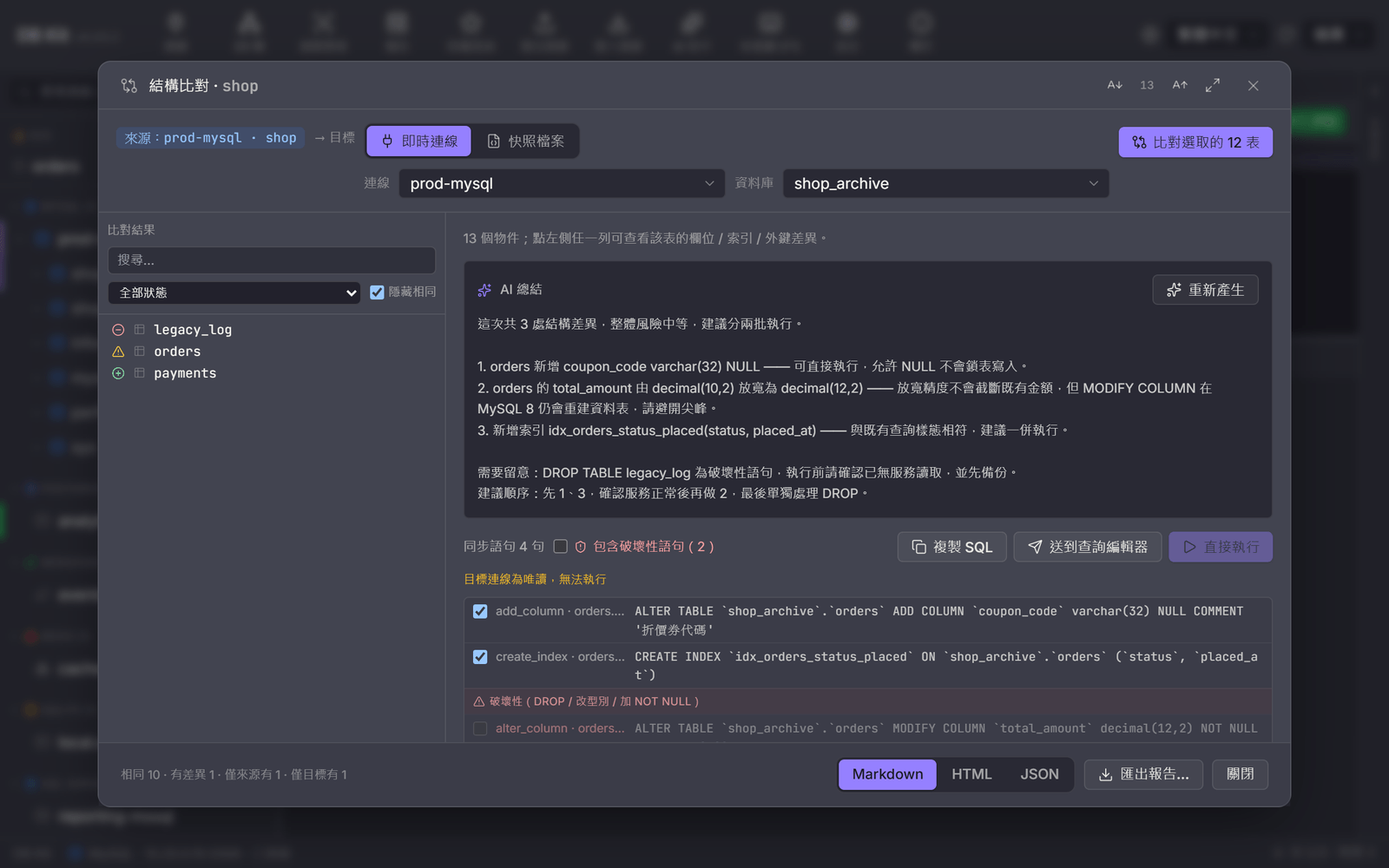
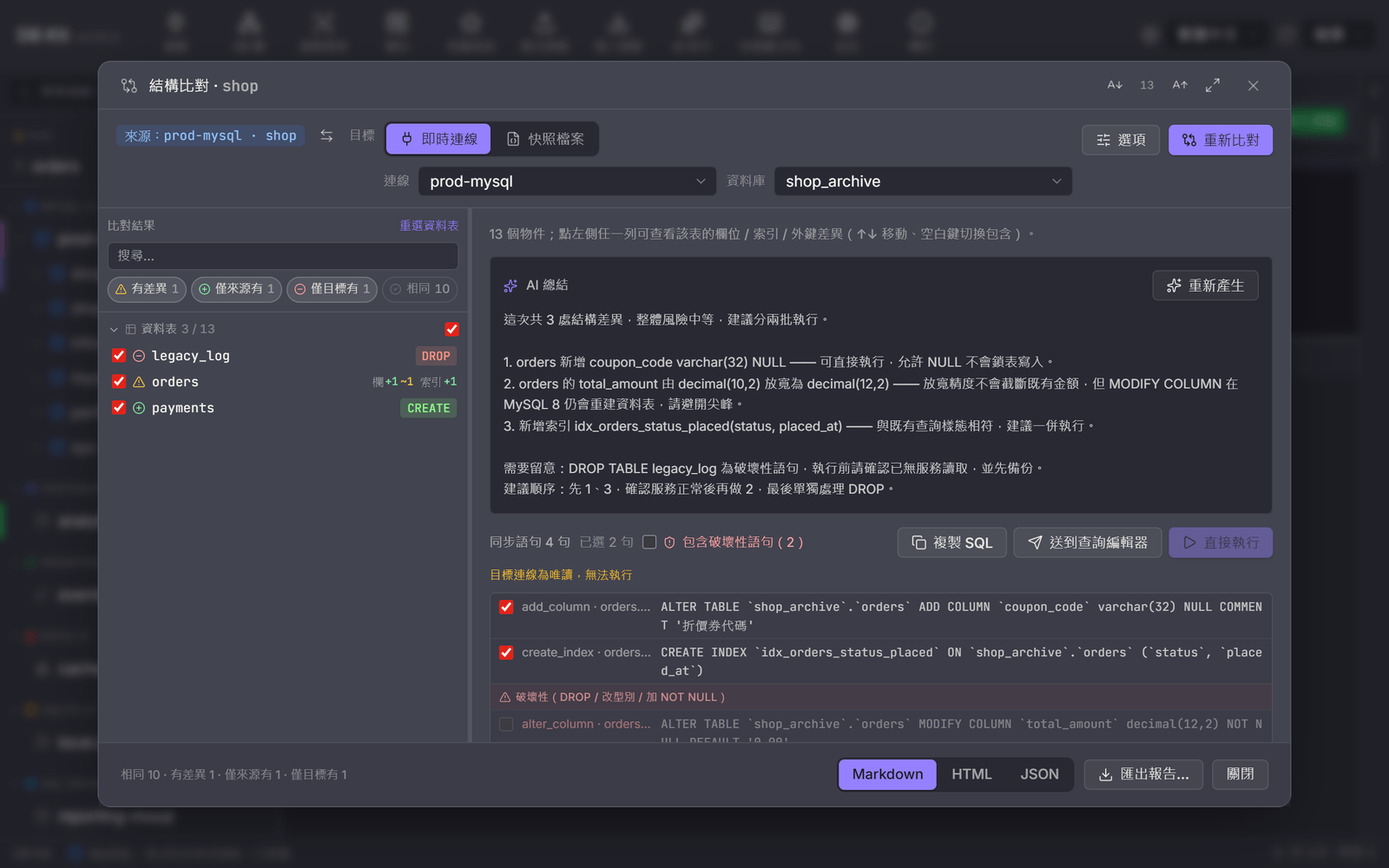
docs(readme): README 對齊 v0.55——補上 v0.44 之後的遠端桌面、SSH 操作紀錄、進階匯出與結構比對改版，截圖全部重拍
- 亮點與目前進度改成十一種資料來源（補 RabbitMQ、Elasticsearch / OpenSearch）
- 遠端桌面：RustDesk 工具列（多螢幕、錄影、虛擬鍵盤、檔案傳輸、自動重連）、VNC 工具列與 VeNCrypt 加密
- SSH 操作紀錄；進階匯出照側欄分組；結構比對的勾選 / 晶片 / ⇄ / 選項 / 字詞級差異
- 功能藍圖補五項；docs/screenshots 27 張以 v0.55.0 重拍

diff --git a/README.en.md b/README.en.md
@@ -66,7 +66,7 @@ One codebase, one consistent experience, shipping **native desktop apps for Wind
 
 ## Screenshots
 
-> Real app screenshots (production build, default **Amethyst** dark theme, v0.43). Connections, hosts and data shown are fictional demo data.
+> Real app screenshots (production build, default **Amethyst** dark theme, v0.55). Connections, hosts and data shown are fictional demo data.
 > Retake them anytime with `npm run make:screenshots` (real Playwright captures — see [`scripts/capture-screenshots.mjs`](./scripts/capture-screenshots.mjs)). The UI language in the screenshots is Traditional Chinese; English, 简体中文, 日本語, 한국어 and Tiếng Việt are one click away in the toolbar.
 
 **One entry point for everything** — "New connection" puts databases, message queues, search engines, containers and images, and remote hosts in a single picker. Or paste a connection string (`postgres://`, `mongodb+srv://`, `ssh://`, `rdp://`, `rustdesk://`, JDBC, ADO.NET…) and the type and fields are filled in for you:
@@ -127,7 +127,7 @@ After running, the result tab lists column-by-column before / after differences;
 
 > How rollback levels are decided, what each file in the output folder is, and per-database restore details: see the **[Review & Run guide](./docs/review-run.md)** (in Chinese).
 
-**Schema compare** — compare a whole database or a single table. The target can be another database on the same connection, **another connection**, or a saved schema snapshot. Differences cover columns, indexes, foreign keys, views and routines; the sync DDL is ordered by dependency, destructive statements (DROP / type change / adding NOT NULL) are grouped separately and need an extra tick before they can run, and changes the engine cannot express are listed under "Skipped" instead of silently dropped. **AI summary** condenses the diff into risks and an execution order (only a structural summary is sent, never data); reports export to Markdown / HTML / JSON:
+**Schema compare** — compare a whole database or a single table. The target can be another database on the same connection, **another connection**, or a saved schema snapshot. Differences cover columns, indexes, foreign keys, views and routines; the sync DDL is ordered by dependency, destructive statements (DROP / type change / adding NOT NULL) are grouped separately and need an extra tick before they can run, and changes the engine cannot express are listed under "Skipped" instead of silently dropped. Every row in the result list has a checkbox — **untick a table and its statements leave the sync script**; status chips above the list (different / source only / target only / identical) filter it, each row shows a diff summary such as "cols +1 ~1", "CREATE" or "DROP", **⇄ swaps source and target** in one click, and compare options (ignore name case / comments / defaults…) sit right on the toolbar. Drill into an object and the side-by-side DDL has line numbers and **word-level highlighting** (`varchar(50)` → `varchar(200)` lights up only `50` / `200`), can fold identical lines, and jumps straight to the previous / next object. **AI summary** condenses the diff into risks and an execution order (only a structural summary is sent, never data); reports export to Markdown / HTML / JSON:
 
 <p align="center">
   <img src="docs/screenshots/10-schema-compare.png" alt="Whole-database schema compare and sync script" width="860">
@@ -153,7 +153,7 @@ After running, the result tab lists column-by-column before / after differences;
 |:---:|:---:|
 | ![Docker container tab](docs/screenshots/16-docker.png) | ![Kubernetes Pod tab](docs/screenshots/17-kubernetes.png) |
 
-**Remote desktop** — RDP (with NLA and certificate fingerprint confirmation), VNC / Mac Screen Sharing, and RustDesk (Direct IP, or by RustDesk ID through ID / relay servers — end-to-end encrypted once you fill in the server key) open right inside a tab. Full screen, two-way clipboard text sync, and an SSH host can act as an encrypted jump box:
+**Remote desktop** — RDP (with NLA and certificate fingerprint confirmation), VNC / Mac Screen Sharing, and RustDesk (Direct IP, or by RustDesk ID through ID / relay servers — end-to-end encrypted once you fill in the server key) open right inside a tab. Full screen, two-way clipboard text sync, and an SSH host can act as an encrypted jump box. RustDesk and VNC tabs each get a toolbar (screenshots, recording, virtual keyboard, automatic reconnect; RustDesk adds multiple screens, file transfer and chat), and VNC switches to TLS automatically when the server supports VeNCrypt:
 
 <p align="center">
   <img src="docs/screenshots/18-remote-desktop.png" alt="RDP remote desktop embedded in a tab" width="860">
@@ -262,7 +262,7 @@ Common operations at a glance:
 
 ## ✨ Highlights
 
-- **Eight databases + Kafka, one tool** — MySQL · MariaDB · PostgreSQL · SQL Server · Oracle · SQLite · MongoDB · Redis · Kafka, all fully connectable, sharing one connection tree, data grid, and shortcut set.
+- **Eleven data sources, one tool** — MySQL · MariaDB · PostgreSQL · SQL Server · Oracle · SQLite · MongoDB · Redis, plus Kafka · RabbitMQ message queues and Elasticsearch / OpenSearch search, all fully connectable, sharing one connection tree, data grid, and shortcut set.
 - **The other tools you open while chasing a problem, in the same sidebar** — SSH terminal with SFTP / FTP file panes, Docker / Registry / Harbor, Kubernetes, remote desktop (RDP / VNC / Mac Screen Sharing / RustDesk), and file / folder compare and sync. None of it takes up room until you use it: a sidebar section only appears once you have a host or connection of that kind. Databases running in Docker / Kubernetes become connections in one click, and credentials only ever live in the OS keychain.
 - **Cross-platform desktop app** — one codebase ships native installers for Windows / macOS / Linux with identical UI, shortcuts, connection management, and keychain integration; the `dbk` CLI is cross-platform too (see [Cross-platform](#cross-platform)).
 - **Light and fast** — Tauri 2 architecture using the system WebView, ~10× lighter than Electron; skeleton-screen startup (zero white flash), ~470 KB initial JS bundle, CodeMirror lazy-loaded only when you open a query tab.
@@ -294,23 +294,23 @@ Common operations at a glance:
 | Universal data grid | Multi-column compound filters (9 operators + AND·OR), multi-column sort, filter by value, **two-way foreign-key navigation** (jump to referenced row / find referencing rows), **Excel + CSV import**, multi-format + **Excel export**, copy as INSERT/UPDATE/DELETE/IN, column profiling + distinct-value distribution, **column comments on header hover** |
 | Query workspace | Syntax highlighting + table/column autocomplete (incl. external gateway), **`@` user-variable suggestions**, **stacked multi-result sets** (SSMS style, collapsible, export one or all), **visual query builder** (JOIN / aggregates / HAVING / paging / live preview), **SQL snippet library**, **parameterized queries `:name`**, format / minify / keyword casing, query history (200 entries, filterable), **saved queries** (groups / edit / import-export), run selection only, failed-statement locating, multiple query tabs (right-click to close others), **reopening the app restores the tabs you left open** (including which one was active; contents were already remembered per connection x per tab) |
 | Search / navigation | **Advanced object search Ctrl+Shift+G** (search names / definition bodies / comments across databases, whole-word + wildcards `*` `?`, highlighted definition preview, select in object explorer), **command palette Ctrl+K**, sidebar search auto-expands matching folders |
-| Cross-database / cross-connection | **Cross-database autocomplete** (write `other_db.table` on the same connection and still get table / column / alias completion — typing `other_db.` loads that schema on demand), **data transfer** (single table / whole database / auto-create missing tables), **data compare / sync** (generates INSERT/UPDATE/DELETE), **whole-database documentation** (HTML / Markdown), schema compare |
+| Cross-database / cross-connection | **Cross-database autocomplete** (write `other_db.table` on the same connection and still get table / column / alias completion — typing `other_db.` loads that schema on demand), **data transfer** (single table / whole database / auto-create missing tables), **data compare / sync** (generates INSERT/UPDATE/DELETE), **whole-database documentation** (HTML / Markdown), **schema compare** (whole database or one table; **ticking objects decides which statements go into the script**, status chips, per-row diff summary, ⇄ swap source and target, compare options for name case / comments / defaults, word-level DDL diff with folded identical lines, automatic re-compare after applying) |
 | Performance | **SQL stress test** (in the spirit of SQLQueryStress): multi-threaded replay, fixed iterations or duration + ramp-up, warmup, **p50/p90/p95/p99 latency percentiles** plus a live TPS chart, **fingerprinted error grouping**, `:name` parameter substitution from pasted CSV, one-click Markdown report. Runs on its **own connection pool** so it never starves the interactive one; writes and highly destructive statements are refused by default. Also available as `dbk stress` for scripts |
 | Appearance | **7 gemstone themes** (Amethyst / Moonstone / Jade / Garnet / Amber / Ruby / Obsidian) driving the whole app + editor highlighting, one-click light / dark / variant switching from the toolbar; a **global interface text size** (6 steps, scales the whole app proportionally) set separately from the code text size |
 | Security | Passwords in the OS keychain, SSH Tunnel (password / private key) + host-key TOFU, fully parameterized bindings against injection, **read-only connection mode** (blocks writes / DDL), **connection color labels** (tell prod from test), **startup password** (Argon2id), **row cap / query timeout**, pinned favorite tables |
-| SSH terminal | A separate "SSH hosts" list in the sidebar (folders, search; shown once you have a host, connected hosts light up, hover for terminal / SFTP / edit buttons), added from "New connection" → SSH / SFTP or by pasting an `ssh://` / `sftp://` / `ssh -p … user@host` connection string, **multi-tab xterm.js terminals** (password / private key + passphrase / keyboard-interactive / ssh-agent · Pageant; secrets only in the OS keychain; private keys in **any common format**: OpenSSH, PuTTY .ppk (v2 / v3), PKCS#8, PEM (PKCS#1 RSA / SEC1 EC, including OpenSSL 3DES / AES encryption) and DER, with a clear explanation for formats that need converting; **OpenSSH user certificates** (`<key>-cert.pub` is picked up automatically); a **key manager**: import a file or paste, generate Ed25519 / ECDSA / RSA, copy the public key, attach a certificate, export; hosts can be imported in bulk from **~/.ssh/config** (with Include) and **.xsh session files**, keys and certificates included; **jump hosts** (ProxyJump, multi-hop, linked automatically on import)), explicit host-key prompts on first use and on fingerprint change, one-click or Enter-to-reconnect, search, font zoom, colours follow the app theme (every theme has a matching terminal palette, with a separate set tuned for light backgrounds), right-click copy / paste (multi-line paste asks first); a **status bar** (host / jump host, terminal size, connected time) with **session recording** to a file (plain text, colour codes stripped) and saving the whole terminal output as text; a **compose bar** (type, then send; ↑↓ history); an **SFTP split pane** (browse / upload / download / rename / delete / mkdir / cd the terminal here, on the same connection so no second password; **in-app editing of remote files**, permissions and filtering; **multi-select** (Ctrl / Shift click, Ctrl+A) for batch download / delete, whole-folder upload and download, overwrite / skip / resume on name clashes; **resumable transfers**: when a transfer drops midway the transferred part is kept and “Resume” continues from where it stopped (the tail of that part is compared first, so it only continues the same file); the toolbar’s “SFTP” button opens it in **its own window** (move it to another screen; **drag files or folders into the window to upload**, onto a folder row to put them there) at the **terminal’s current folder**, while the side-panel button at the far right docks it beside the terminal, and “Follow the terminal” keeps the list in step with `cd`; cut / paste or “Move to…” to move files, and the pane can be maximized); DB connections with an SSH tunnel get **Open SSH terminal** in their context menu. The AI assistant only *suggests* commands — bash blocks get "Send to terminal" / "Run & feed back", you press the button, dangerous commands are confirmed first and fatal ones blocked |
+| SSH terminal | A separate "SSH hosts" list in the sidebar (folders, search; shown once you have a host, connected hosts light up, hover for terminal / SFTP / edit buttons), added from "New connection" → SSH / SFTP or by pasting an `ssh://` / `sftp://` / `ssh -p … user@host` connection string, **multi-tab xterm.js terminals** (password / private key + passphrase / keyboard-interactive / ssh-agent · Pageant; secrets only in the OS keychain; private keys in **any common format**: OpenSSH, PuTTY .ppk (v2 / v3), PKCS#8, PEM (PKCS#1 RSA / SEC1 EC, including OpenSSL 3DES / AES encryption) and DER, with a clear explanation for formats that need converting; **OpenSSH user certificates** (`<key>-cert.pub` is picked up automatically); a **key manager**: import a file or paste, generate Ed25519 / ECDSA / RSA, copy the public key, attach a certificate, export; hosts can be imported in bulk from **~/.ssh/config** (with Include) and **.xsh session files**, keys and certificates included; **jump hosts** (ProxyJump, multi-hop, linked automatically on import)), explicit host-key prompts on first use and on fingerprint change, one-click or Enter-to-reconnect, search, font zoom, colours follow the app theme (every theme has a matching terminal palette, with a separate set tuned for light backgrounds), right-click copy / paste (multi-line paste asks first); a **status bar** (host / jump host, terminal size, connected time) with **session recording** to a file (plain text, colour codes stripped) and saving the whole terminal output as text; a **compose bar** (type, then send; ↑↓ history); an **SFTP split pane** (browse / upload / download / rename / delete / mkdir / cd the terminal here, on the same connection so no second password; **in-app editing of remote files**, permissions and filtering; **multi-select** (Ctrl / Shift click, Ctrl+A) for batch download / delete, whole-folder upload and download, overwrite / skip / resume on name clashes; **resumable transfers**: when a transfer drops midway the transferred part is kept and “Resume” continues from where it stopped (the tail of that part is compared first, so it only continues the same file); the toolbar’s “SFTP” button opens it in **its own window** (move it to another screen; **drag files or folders into the window to upload**, onto a folder row to put them there) at the **terminal’s current folder**, while the side-panel button at the far right docks it beside the terminal, and “Follow the terminal” keeps the list in step with `cd`; cut / paste or “Move to…” to move files, and the pane can be maximized); DB connections with an SSH tunnel get **Open SSH terminal** in their context menu. An **activity log** records the commands run in the terminal, SFTP / FTP file actions and connects / disconnects, searchable and exportable — passwords are never logged. The AI assistant only *suggests* commands — bash blocks get "Send to terminal" / "Run & feed back", you press the button, dangerous commands are confirmed first and fatal ones blocked |
 | FTP / FTPS | The sidebar "SSH hosts" list also holds FTP hosts ("New connection → FTP / FTPS", or paste `ftp://` / `ftpes://` / `ftps://`); opening one gives a files-only tab with the same features as the SFTP pane (browse, upload / download, drag and drop, editing, permissions, separate window); **resumable transfers** (`REST` / `APPE`, the tail of the transferred part is compared first); explicit / implicit FTPS, with self-signed certificates confirmed by fingerprint and remembered; passive / active mode; each transfer uses its own connection (up to two at a time, the rest queue) so you can keep browsing during large transfers |
 | Containers (Docker / Registry / Harbor) | **Docker**: local (named pipe / `docker.sock`), TCP, TLS / mutual TLS, or over an SSH tunnel; the tree splits into containers / images / volumes / networks, containers are colored by state, right-click to start / stop / pause / kill / rename / delete; a container tab has **Info** (port mappings, networks, mounts, health check; passwords in environment variables masked by default), **Logs** (follow, stderr in red, search), **Shell** (interactive terminal), **Resources** (CPU / memory charts) and **Processes**; **one-click connection for database containers** (type detected from the image, port and variables such as `POSTGRES_PASSWORD` filled in); an overview with disk usage, containers grouped by compose project, clean-ups (anything that deletes data asks you to type `prune`), and image pulls with per-layer progress. **Registry v2** (self-hosted, Docker Hub, GHCR…, tokens exchanged automatically): tag digest / size / multi-platform manifest / layers, copy the `docker pull` command, delete. **Harbor**: artifact table, trigger vulnerability scans and read the CVE details, delete tags / artifacts / repositories, project quotas and component health; images in Registry / Harbor can be "pulled to Docker" directly. Read-only connections hide every write action |
 | Kubernetes | Connect with a kubeconfig (pick a context) or by hand (API server + token / certificates); tokens, token files, client certificates and the EKS / GKE / AKS external login commands all work, namespaces can be restricted, and the API server can be reached over an SSH tunnel. The tree is namespace → resource kind (Pods, Deployments, StatefulSets, Services, Ingresses, ConfigMaps, Secrets, PVCs, HPAs…) → resource, colored by state, plus cluster resources (Nodes, PVs, StorageClasses, CRDs); resource tabs have **Overview**, **Events** and **YAML** (dry-run before apply; a concurrent edit by someone else is caught); Pods add **Logs** (pick a container, previous logs, follow, search), **Shell** and **Resources**. Scale, rollout restart, run a CronJob now, cordon, delete; **port-forward** to localhost, and "**Create database connection…**" on a Pod / Service / StatefulSet makes a connection that opens the forward by itself; a resource browser for any kind (CRDs included), apply pasted YAML, cluster overview |
-| Remote desktop | A separate "Remote desktop" list in the sidebar (groups; shown once you have a host), added from "New connection" or by pasting `rdp://`, `mstsc /v:`, `vnc://` or `rustdesk://<ID>`, or by importing `.rdp` files. **RDP** (NLA, server certificate fingerprint confirmed on first use, scale / resize the remote resolution / original size), **VNC and Mac Screen Sharing** (Mac login credentials; authentication happens in the app's backend, so the password never reaches the web layer), **RustDesk** (Direct IP, or by RustDesk ID through public or self-hosted ID and relay servers — end-to-end encrypted once you enter the server key; asks for the code when the other side uses two-factor authentication; without a password it waits for the other side to accept). All of them render inside a tab, several at once; in **full screen** Win / Alt+Tab / Alt+F4 go to the remote machine (Windows) and the toolbar sends Ctrl+Alt+Del; clipboard text syncs both ways; any saved SSH host can act as an encrypted jump box. The RustDesk connection lives in a separate AGPL helper (`rustdesk-bridge/`) shipped with the installer, so db-kit itself stays MIT |
+| Remote desktop | A separate "Remote desktop" list in the sidebar (groups; shown once you have a host), added from "New connection" or by pasting `rdp://`, `mstsc /v:`, `vnc://` or `rustdesk://<ID>`, or by importing `.rdp` files. **RDP** (NLA, server certificate fingerprint confirmed on first use, scale / resize the remote resolution / original size), **VNC and Mac Screen Sharing** (Mac login credentials; authentication happens in the app's backend, so the password never reaches the web layer), **RustDesk** (Direct IP, or by RustDesk ID through public or self-hosted ID and relay servers — end-to-end encrypted once you enter the server key; asks for the code when the other side uses two-factor authentication; without a password it waits for the other side to accept). All of them render inside a tab, several at once; in **full screen** Win / Alt+Tab / Alt+F4 go to the remote machine (Windows) and the toolbar sends Ctrl+Alt+Del; clipboard text syncs both ways; any saved SSH host can act as an encrypted jump box. **RustDesk toolbar**: quality and codec (including true color 4:4:4), custom zoom, switch between the remote screens or tile "all screens", the remote cursor shape, a virtual keyboard and one-click OS password entry, keyboard mode (map / translate), chat, connection quality, screenshots and **recording**, **file transfer** (two panes, local on the left and remote on the right, whole folders up and down), and **automatic reconnect** after the other side signs in / out or reboots. **VNC toolbar**: display settings, actions, screenshots, recording, a virtual keyboard, typing clipboard text into the remote character by character, and automatic reconnect; when the server offers **VeNCrypt** the session goes over TLS (anonymous TLS or X509 certificates, confirmed on first use and remembered), so the screen, keystrokes and password are no longer sent in the clear. Right-click a tab or sidebar host to disconnect / reconnect. The RustDesk connection lives in a separate AGPL helper (`rustdesk-bridge/`) shipped with the installer, so db-kit itself stays MIT |
 | File compare | In-tab **text compare** (side by side, inline differences, synced scrolling, both sides editable, apply each hunk → / ←, Alt+↑ / ↓ to jump between differences, and a check for outside changes before saving back), **folder compare** (same / different / one side only colored and filterable; match by size + modified time, size only, or byte-by-byte; exclude rules with `*` `?`; copies keep the modified time) with **sync** (mirror, one-way update, two-way update — every action is listed before it runs), and **binary compare** (hex side by side, difference ranges). Either side can be local or any saved SSH / SFTP / FTP host, and compares you use often can be saved; `dbk diff` / `dbk sync` bring the same engine to scheduled jobs |
 | SQL review | **Static rule engine** (in the spirit of Redgate SQL Prompt / SonarQube SQL rules): 15 rules across three severities, listing issues as you type — DML without WHERE, Cartesian products, functions on columns that defeat indexes, leading-wildcard LIKE, the `NOT IN` NULL trap, UNION vs UNION ALL, NOLOCK dirty reads, row-by-row cursors and more. Dialect-aware, **runs no query and needs no AI**; click a finding to select it in the editor |
 | Review & Run | **AI review** before execution (verdict badge: safe / caution / not recommended; no data rows sent by default) → **per statement: capture before-image → persist rollback → execute → capture after-image and diff**; rollback level per statement (full / partial / none), confirmations for incomplete rollback and production; outputs `script.sql` / `review.md` / `rollback.sql` / `diff.md` / `report.md` / `manifest.json` / `snapshots/`; "Backup only" mode (works on read-only connections); rollback scripts can themselves be reviewed and run; shared with AI assistant writes and `dbk run`; MySQL / MariaDB / PostgreSQL / SQL Server / Oracle / SQLite |
 | Stored-procedure integration tests | Scenario files (`insert` / `call` / `query` / `sql` / `compare` / `snapshot`; `>>` / `<<` symbols pass values between steps; `fixtures` for shared setup, `cases` for data-driven runs); **affected tables are snapshotted automatically** around every call (write targets found from the routine body, callees and triggers); assertions on result sets (listed columns only, order-insensitive, `?` = value-only), OUT parameters, return code, side-effect counts or rows, `effects_strict`, error class; value comparison knows `1.0`=`1`, bit=boolean, datetime tolerance, and masks identity / time-default columns; modes `assert` / `record` / `golden` / `diff`; AI-generated scenarios; `dbk sp-test run|diff|inspect|validate` with JUnit and `--exit-code`; SQL Server / PostgreSQL / MySQL |
 | AI assistant | Right-hand panel wired to your local **Claude Code or OpenAI Codex** CLI (switch from a dropdown; each remembers its own model): streaming Q&A, write / optimize SQL, optionally attach the current schema; code blocks follow the active theme's highlighting. Three one-click entry points — **Review SQL with AI** (rule-engine findings + schema + indexes + plan), **Tuning advice** (plan hot spots; asks for index DDL, a rewrite and the cost of both), and **Analyse stress results** (infers the bottleneck from the shape of the latency percentiles) |
-| Operations | Persistent connection settings, encrypted connection export / import (passwords included), scheduled backups + backup history, connection-pool monitoring + ping, **in-app updates** (an update window lists what changed in the new version; on Windows "Update now" downloads the installer, checks its SHA-256 and relaunches after installing, while macOS / Linux open the download page), cross-platform desktop app |
+| Operations | Persistent connection settings, encrypted connection export / import (passwords included; listed by the sidebar's sections and groups so a whole section or group can be ticked at once, with SSH hosts and remote desktops included), scheduled backups + backup history, connection-pool monitoring + ping, **in-app updates** (an update window lists what changed in the new version; on Windows "Update now" downloads the installer, checks its SHA-256 and relaunches after installing, while macOS / Linux open the download page), cross-platform desktop app |
 
-> Current status: **all eight databases + Kafka fully connectable**; relational databases have full CRUD / DDL column editing / index management / EXPLAIN / RETURNING display, multi-column compound filters (9 operators + AND·OR) and sorting, **CSV import** + multi-format export + **whole-database schema dump SQL**
+> Current status: **all eleven data sources (eight databases + Kafka · RabbitMQ · Elasticsearch) fully connectable**; relational databases have full CRUD / DDL column editing / index management / EXPLAIN / RETURNING display, multi-column compound filters (9 operators + AND·OR) and sorting, **CSV import** + multi-format export + **whole-database schema dump SQL**
 > SQL Server (tiberius + bb8 connection pool): CRUD, structure tabs (indexes / foreign keys / DDL), routines (stored procedures / functions), execution plans (SET SHOWPLAN_XML), ER diagram, column statistics; backup / restore planned via sqlpackage `.bacpac` export (not wired up yet)
 > MariaDB shares the MySQL driver (wire-protocol compatible): full MySQL feature parity + `INSERT/DELETE … RETURNING` result-set display
 > Oracle (rust-oracle / ODPI-C): CRUD, structure tabs (indexes / foreign keys / DDL via DBMS_METADATA), routines, execution plans (EXPLAIN PLAN + DBMS_XPLAN), ER diagram, column statistics; **requires a self-installed 64-bit Oracle Instant Client** (detected at runtime via PATH / ORACLE_HOME / custom directory, with download guidance if missing; server must be 12c+)
@@ -411,6 +411,11 @@ All core features are complete (60+ items). Expand for the full list:
 - [x] **Kubernetes**: kubeconfig / token / certificates / external login commands (EKS / GKE / AKS), namespace → resource tree, overview / events / YAML edit and apply, Pod logs / shell / resource usage, scale / restart / cordon, port-forward and "Create database connection" with automatic forwarding, resource browser (CRDs included)
 - [x] **File / folder / binary compare**: apply text hunks and save back, folder compare with mirror / update sync, hex compare; any mix of local and SSH / FTP hosts; saved compares; `dbk diff` / `dbk sync`
 - [x] **Consistent sidebar grouping**: database connections in one section per type, SSH hosts and remote desktops in their own sections, all three collapsible with groups, drag to reorder and drag in / out of groups
+- [x] **RustDesk toolbar**: quality / codec / true color 4:4:4, custom zoom, screen switching and "all screens", remote cursor shape, virtual keyboard and OS password entry, keyboard mode, chat, connection quality, screenshots and recording, two-pane file transfer, automatic reconnect when the other side drops the session
+- [x] **VNC toolbar and VeNCrypt encryption**: display settings / actions / screenshots / recording, virtual keyboard, clipboard typed out character by character, automatic reconnect; anonymous TLS and X509 certificate TLS, with "Auto" preferring encryption
+- [x] **SSH activity log**: terminal commands, SFTP / FTP file actions and connection events, searchable and exportable, passwords never logged
+- [x] **Advanced connection export by sidebar group**: tick a whole section or group; SSH hosts and remote desktops export / import too
+- [x] **Schema compare workflow rework**: ticked objects drive the sync script, status chips, per-row diff summary, ⇄ swap source and target, compare options, DDL line numbers and word-level diff, fold identical lines, previous / next object, re-compare after applying
 
 </details>
 

diff --git a/README.md b/README.md
@@ -65,7 +65,7 @@
 
 ## 畫面預覽
 
-> App 實際畫面截圖（production build，預設的 **Amethyst 紫水晶**深色主題，v0.43）；畫面中的連線、主機與資料皆為虛構的示範資料。
+> App 實際畫面截圖（production build，預設的 **Amethyst 紫水晶**深色主題，v0.55）；畫面中的連線、主機與資料皆為虛構的示範資料。
 > 隨程式碼演進可用 `npm run make:screenshots` 重拍（Playwright 實拍，見 [`scripts/capture-screenshots.mjs`](./scripts/capture-screenshots.mjs)）。
 
 **一個入口連所有東西** — 「新增連線」把資料庫、訊息佇列、搜尋引擎、容器與映像、遠端主機放在同一個選擇器裡；也可以直接貼連線字串（`postgres://`、`mongodb+srv://`、`ssh://`、`rdp://`、`rustdesk://`、JDBC、ADO.NET…），類型與欄位自動判斷填好：
@@ -112,7 +112,7 @@
   <img src="docs/screenshots/09-routine-exec.png" alt="執行預存程序的引數表單" width="860">
 </p>
 
-**結構比對** — 比整個資料庫，或只比某一張表。目標可以是同一條連線的另一個庫、**另一條連線**，或先前存下的結構快照檔。差異涵蓋欄位、索引、外鍵、視圖與預存程序；同步 DDL 依相依性排序產生，破壞性語句（DROP / 改型別 / 加 NOT NULL）另外分組、要再勾一次才送得出去，引擎表達不出來的變更一律列進「略過」而不是靜默漏掉。**AI 總結**把差異濃縮成風險與執行順序（只送結構摘要，不送任何資料）；報告可匯出 Markdown / HTML / JSON：
+**結構比對** — 比整個資料庫，或只比某一張表。目標可以是同一條連線的另一個庫、**另一條連線**，或先前存下的結構快照檔。差異涵蓋欄位、索引、外鍵、視圖與預存程序；同步 DDL 依相依性排序產生，破壞性語句（DROP / 改型別 / 加 NOT NULL）另外分組、要再勾一次才送得出去，引擎表達不出來的變更一律列進「略過」而不是靜默漏掉。結果清單每一列都有勾選框——**勾掉一張表，它的語句就從同步腳本排除**；清單上方的狀態晶片（有差異 / 僅來源有 / 僅目標有 / 相同）可多選篩選，每列直接標出「欄 +1 ~1」「CREATE」「DROP」之類的差異摘要；**⇄ 一鍵對調來源與目標**；忽略名稱大小寫 / 註解 / 預設值等比對選項在工具列上就能改。點進單一物件，DDL 並排有行號與**字詞級差異標示**（`varchar(50)` → `varchar(200)` 只打亮 `50` / `200`），可摺疊相同行、直接跳上一個 / 下一個物件。**AI 總結**把差異濃縮成風險與執行順序（只送結構摘要，不送任何資料）；報告可匯出 Markdown / HTML / JSON：
 
 <p align="center">
   <img src="docs/screenshots/10-schema-compare.png" alt="整庫結構比對與同步腳本" width="860">
@@ -152,7 +152,7 @@
 |:---:|:---:|
 | ![Docker 容器分頁](docs/screenshots/16-docker.png) | ![Kubernetes Pod 分頁](docs/screenshots/17-kubernetes.png) |
 
-**遠端桌面** — RDP（含 NLA、憑證指紋確認）、VNC / Mac 螢幕共享、RustDesk（Direct IP 或 RustDesk ID，經 ID / 中繼伺服器、填 Key 即端到端加密）直接開在分頁裡；可全螢幕、剪貼簿文字雙向同步，也能指定一台 SSH 主機當跳板加密轉接：
+**遠端桌面** — RDP（含 NLA、憑證指紋確認）、VNC / Mac 螢幕共享、RustDesk（Direct IP 或 RustDesk ID，經 ID / 中繼伺服器、填 Key 即端到端加密）直接開在分頁裡；可全螢幕、剪貼簿文字雙向同步，也能指定一台 SSH 主機當跳板加密轉接。RustDesk 與 VNC 分頁各有工具列（截圖、錄影、虛擬鍵盤、斷線自動重連；RustDesk 另有多螢幕、檔案傳輸、聊天），VNC 伺服器支援 VeNCrypt 時自動改走 TLS 加密：
 
 <p align="center">
   <img src="docs/screenshots/18-remote-desktop.png" alt="分頁內嵌的 RDP 遠端桌面" width="860">
@@ -261,7 +261,7 @@ docker run --name mysql-test -e MYSQL_ROOT_PASSWORD=test1234 -p 3306:3306 -d mys
 
 ## ✨ 亮點
 
-- **一站式八大資料庫 + Kafka** — MySQL · MariaDB · PostgreSQL · SQL Server · Oracle · SQLite · MongoDB · Redis · Kafka，全部可實際連線，共用同一套連線樹、資料格與快捷鍵。
+- **一站式十一種資料來源** — MySQL · MariaDB · PostgreSQL · SQL Server · Oracle · SQLite · MongoDB · Redis，加上 Kafka · RabbitMQ 訊息佇列與 Elasticsearch / OpenSearch 搜尋引擎，全部可實際連線，共用同一套連線樹、資料格與快捷鍵。
 - **查問題要開的其他工具也在同一個側欄** — SSH 終端機與 SFTP / FTP 檔案面板、Docker / Registry / Harbor、Kubernetes、遠端桌面（RDP / VNC / Mac 螢幕共享 / RustDesk），以及檔案 / 資料夾比對與同步。這些類型平常不佔版面：側欄只在有主機或連線時才出現對應區塊。跑在 Docker / Kubernetes 裡的資料庫可以一鍵建成連線，帳密一律只存 OS keychain。
 - **跨平台桌面 App** — 同一份程式碼產出 Windows / macOS / Linux 三平台原生安裝檔，介面、快捷鍵、連線管理與 keychain 完全一致；`dbk` CLI 亦跨平台（見 [跨平台](#跨平台)）。
 - **輕量高效** — Tauri 2 架構，用系統內建 WebView、比 Electron 輕約 10×；啟動走骨架屏（零白屏）、首包 JS 約 470 KB，CodeMirror 延後到開查詢分頁才載。
@@ -293,15 +293,15 @@ docker run --name mysql-test -e MYSQL_ROOT_PASSWORD=test1234 -p 3306:3306 -d mys
 | 通用資料格 | 多欄複合篩選（9 運算子 + AND·OR）、多欄排序、依值篩選、**外鍵雙向導覽**（跳至參照 / 找參照此列者）、**Excel + CSV 匯入**、多格式 + **Excel 匯出**、複製為 INSERT/UPDATE/DELETE/IN、欄位剖析 + 相異值分布、**表頭 hover 顯示欄位註解** |
 | 查詢工作區 | 語法高亮 + 表/欄自動完成（含 external gateway）、**`@` 使用者變數提示**、**多結果集堆疊**（SSMS 風格，可摺疊 / 單格或全部匯出）、**視覺化查詢建構器**（JOIN / 聚合 / HAVING / 分頁 / 即時預覽）、**SQL 片段庫**、**參數化查詢 `:name`**、格式化 / 壓縮 / 關鍵字大小寫、查詢歷史（200 筆，可過濾）、**收藏查詢**（分組 / 編輯 / 匯出匯入）、只執行反白段、失敗語句定位、多開查詢分頁（右鍵關閉其他）、**重開 app 還原上次開著的分頁**（含停在哪一個；內容本來就 per-連線 × per-分頁 記憶） |
 | 搜尋 / 導覽 | **進階物件搜尋 Ctrl+Shift+G**（跨庫搜名稱 / 定義內文 / 註解，整字比對 + 萬用字元 `*` `?`、定義預覽高亮、在物件總管中選取）、**命令面板 Ctrl+K**、側欄搜尋命中自動展開資料夾 |
-| 跨庫 / 跨連線 | **跨庫查詢自動完成**（同一連線寫 `其他庫.表` 也補得到表 / 欄 / 別名，打 `其他庫.` 當下按需載入）、**資料傳輸**（單表 / 整庫 / 不存在時自動建表）、**結構比對**（單表 / 整庫；目標可為另一條連線、同連線的其他庫，或結構快照檔；差異含欄位 / 索引 / 外鍵 / 視圖 / 程序，同步 SQL 可直接套用，破壞性語句分級確認；**AI 總結**；Markdown / HTML / JSON 報告）、**資料列比對**（以主鍵串流、無列數上限，走 CLI `dbk compare data`）、**整庫文件**（HTML / Markdown） |
+| 跨庫 / 跨連線 | **跨庫查詢自動完成**（同一連線寫 `其他庫.表` 也補得到表 / 欄 / 別名，打 `其他庫.` 當下按需載入）、**資料傳輸**（單表 / 整庫 / 不存在時自動建表）、**結構比對**（單表 / 整庫；目標可為另一條連線、同連線的其他庫，或結構快照檔；差異含欄位 / 索引 / 外鍵 / 視圖 / 程序，同步 SQL 可直接套用，破壞性語句分級確認；**勾選物件決定哪些語句進腳本**、狀態晶片篩選、每列差異摘要、⇄ 對調來源與目標、比對選項（忽略大小寫 / 註解 / 預設值）、DDL 字詞級差異與摺疊相同行、套用後自動重新比對；**AI 總結**；Markdown / HTML / JSON 報告）、**資料列比對**（以主鍵串流、無列數上限，走 CLI `dbk compare data`）、**整庫文件**（HTML / Markdown） |
 | 效能 | **SQL 壓力測試**（致敬 SQLQueryStress）：多執行緒重複執行、固定迭代或持續時間 + 爬升、暖機、**p50/p90/p95/p99 延遲百分位** + TPS 即時折線、**錯誤指紋化分組**、`:name` 參數 CSV 替換、報表一鍵複製為 Markdown；走**專屬連線池**不佔用互動連線，寫入與高破壞語句預設擋下；亦可用 `dbk stress` 在腳本中跑 |
 | 外觀 | **7 套寶石系主題**（Amethyst / Moonstone / Jade / Garnet / Amber / Ruby / Obsidian）驅動整個 App + 編輯器語法高亮，工具列一鍵切換光亮 / 暗黑 / 變體；**全域介面字級**（6 段，整個 App 等比縮放）與**程式碼字級**分開設定 |
 | 安全 | 密碼存 OS keychain、SSH Tunnel（密碼 / 私鑰）+ host key TOFU、全參數化綁定防注入、**連線唯讀模式**（擋寫入 / DDL）、**連線色標**（區分正式 / 測試）、**啟動鎖定**（Windows Hello / Touch ID 或 Argon2id 密碼、閒置自動鎖定）、**結果列數上限 / 查詢逾時**、釘選常用表 |
-| SSH 終端機 | 側欄獨立「SSH 主機」清單（可分資料夾、搜尋；有主機才出現，已連線的亮起，滑過有終端機 / SFTP / 編輯快速鈕），從「新增連線」選 SSH / SFTP 或貼 `ssh://` / `sftp://` / `ssh -p … user@host` 連線字串加入，**多分頁 xterm.js 終端機**（密碼 / 私鑰 + 密語 / keyboard-interactive / ssh-agent · Pageant，密碼只進 OS keychain；私鑰**各種格式都能用**：OpenSSH、PuTTY .ppk（v2 / v3）、PKCS#8、PEM（PKCS#1 RSA / SEC1 EC，含 OpenSSL 的 3DES / AES 加密）、DER，認不得的格式會講清楚怎麼轉；支援 **OpenSSH 使用者憑證**（`<私鑰>-cert.pub` 自動帶上）；**金鑰管理**：匯入檔案或貼上、產生 Ed25519 / ECDSA / RSA、複製公鑰、掛憑證、匯出；主機可從 **~/.ssh/config**（含 Include）與 **.xsh 工作階段檔**一次匯入，私鑰與憑證一起帶上；支援**跳板機**（ProxyJump，可多層，匯入時自動接上）），host key 首次連線 / 指紋變更時明確確認，斷線一鍵或按 Enter 重連，搜尋、字級縮放、配色跟著 App 主題（每套主題有配套的終端機色盤，淺色主題換成適合淺底的一組）、右鍵複製貼上（多行貼上先確認）；底部**狀態列**（主機 / 跳板機、終端大小、連線時間），可**記錄工作階段**到檔案（去色碼的純文字）或把整個畫面內容存成文字檔；**命令列輸入條**（打好再送、↑↓ 歷史）；**SFTP 分割面板**（瀏覽 / 上傳 / 下載 / 改名 / 刪除 / 建資料夾 / 在終端機 cd 到此，同一條連線不再問密碼；**在 App 內直接編輯遠端檔案**、改權限、篩選；**多選**（Ctrl / Shift 單擊、Ctrl+A）後批次下載 / 刪除，整個資料夾上傳下載，同名時選覆蓋、略過或續傳；**斷點續傳**：傳到一半斷線時已傳的部分留著，按「續傳」從中斷處接著傳（先比對已傳部分的結尾，確定是同一個檔才接）；工具列「SFTP」開**獨立視窗**（可拖到另一個螢幕；把檔案 / 資料夾**拖進視窗就上傳**，拖到某個資料夾上就放進那個資料夾），開在**終端機目前的資料夾**，最右邊的側邊面板鈕則與終端機並排，可開「跟隨終端機」讓面板隨 cd 切換；剪下 / 貼上或「移動到…」搬檔，面板可放大成整個分頁）；已設 SSH Tunnel 的資料庫連線右鍵即可**開啟終端機** |
+| SSH 終端機 | 側欄獨立「SSH 主機」清單（可分資料夾、搜尋；有主機才出現，已連線的亮起，滑過有終端機 / SFTP / 編輯快速鈕），從「新增連線」選 SSH / SFTP 或貼 `ssh://` / `sftp://` / `ssh -p … user@host` 連線字串加入，**多分頁 xterm.js 終端機**（密碼 / 私鑰 + 密語 / keyboard-interactive / ssh-agent · Pageant，密碼只進 OS keychain；私鑰**各種格式都能用**：OpenSSH、PuTTY .ppk（v2 / v3）、PKCS#8、PEM（PKCS#1 RSA / SEC1 EC，含 OpenSSL 的 3DES / AES 加密）、DER，認不得的格式會講清楚怎麼轉；支援 **OpenSSH 使用者憑證**（`<私鑰>-cert.pub` 自動帶上）；**金鑰管理**：匯入檔案或貼上、產生 Ed25519 / ECDSA / RSA、複製公鑰、掛憑證、匯出；主機可從 **~/.ssh/config**（含 Include）與 **.xsh 工作階段檔**一次匯入，私鑰與憑證一起帶上；支援**跳板機**（ProxyJump，可多層，匯入時自動接上）），host key 首次連線 / 指紋變更時明確確認，斷線一鍵或按 Enter 重連，搜尋、字級縮放、配色跟著 App 主題（每套主題有配套的終端機色盤，淺色主題換成適合淺底的一組）、右鍵複製貼上（多行貼上先確認）；底部**狀態列**（主機 / 跳板機、終端大小、連線時間），可**記錄工作階段**到檔案（去色碼的純文字）或把整個畫面內容存成文字檔；**命令列輸入條**（打好再送、↑↓ 歷史）；**SFTP 分割面板**（瀏覽 / 上傳 / 下載 / 改名 / 刪除 / 建資料夾 / 在終端機 cd 到此，同一條連線不再問密碼；**在 App 內直接編輯遠端檔案**、改權限、篩選；**多選**（Ctrl / Shift 單擊、Ctrl+A）後批次下載 / 刪除，整個資料夾上傳下載，同名時選覆蓋、略過或續傳；**斷點續傳**：傳到一半斷線時已傳的部分留著，按「續傳」從中斷處接著傳（先比對已傳部分的結尾，確定是同一個檔才接）；工具列「SFTP」開**獨立視窗**（可拖到另一個螢幕；把檔案 / 資料夾**拖進視窗就上傳**，拖到某個資料夾上就放進那個資料夾），開在**終端機目前的資料夾**，最右邊的側邊面板鈕則與終端機並排，可開「跟隨終端機」讓面板隨 cd 切換；剪下 / 貼上或「移動到…」搬檔，面板可放大成整個分頁）；**操作紀錄**：終端機執行過的指令、SFTP / FTP 的檔案動作與連線 / 斷線都會記下，可查詢、匯出，密碼不記；已設 SSH Tunnel 的資料庫連線右鍵即可**開啟終端機** |
 | FTP / FTPS | 側欄「SSH 主機」也收 FTP 主機（「新增連線 → FTP / FTPS」或貼 `ftp://` / `ftpes://` / `ftps://`），開啟就是只有檔案面板的分頁，功能與 SFTP 面板相同（瀏覽、上傳下載、拖放、編輯、改權限、獨立視窗）；**斷點續傳**（`REST` / `APPE`，續傳前比對已傳部分的結尾）；explicit / implicit FTPS，自簽憑證以指紋確認並記住；被動 / 主動模式；每個傳輸用自己的連線（同時最多兩條，其餘排隊），傳大檔時照樣可以瀏覽 |
 | 容器（Docker / Registry / Harbor） | **Docker**：本機（named pipe / `docker.sock`）、TCP、TLS / 雙向 TLS，或經 SSH Tunnel；連線樹分容器 / 映像 / Volume / 網路，容器依狀態上色、右鍵啟停 / 暫停 / 強制終止 / 改名 / 刪除；容器分頁有**資訊**（埠映射、網路、掛載、健康檢查，環境變數裡的密碼預設遮罩）、**Log**（持續跟隨、stderr 紅字、搜尋）、**Shell**（互動終端）、**資源**（CPU / 記憶體走勢）與**行程**；**資料庫容器一鍵建連線**（依映像判斷種類，埠與 `POSTGRES_PASSWORD` 之類的環境變數自動帶入）；總覽看磁碟用量、依 compose 專案分組、各種清理（會刪資料的要輸入 `prune` 確認）、拉取映像逐層進度。**Registry v2**（自架、Docker Hub、GHCR…，token 自動換發）：tag 的 digest / 大小 / 多平台清單 / 各層、複製 `docker pull`、刪除。**Harbor**：artifact 表、觸發弱點掃描與看 CVE 明細、刪除 tag / artifact / repository、專案配額與元件健康；Registry / Harbor 的映像可直接「拉到 Docker」。唯讀連線隱藏所有寫入動作 |
 | Kubernetes | 連線用 kubeconfig（選 context）或手動填 API server + token / 憑證；token、token 檔、用戶端憑證與 EKS / GKE / AKS 的外部登入指令都能用，可限定 namespace、可經 SSH Tunnel。連線樹是 namespace → 資源種類（Pods、Deployments、StatefulSets、Services、Ingresses、ConfigMaps、Secrets、PVC、HPA…）→ 資源，依狀態上色，另有叢集資源（Nodes、PV、StorageClass、CRD）；資源分頁有**概要**、**事件**、**YAML**（先試套用再套用，別人先改過會擋下）；Pod 有 **Log**（選容器、重啟前的 log、跟隨、搜尋）、**Shell**、**資源**用量。調整副本、重新啟動、CronJob 立即執行、cordon、刪除；**port-forward** 到本機，Pod / Service / StatefulSet 右鍵「**建立資料庫連線…**」之後連線時自動開轉發；資源瀏覽器可看任何種類（含 CRD）、貼 YAML 套用、叢集總覽 |
-| 遠端桌面 | 側欄獨立「遠端桌面」清單（可分群組；有主機才出現），從「新增連線」或貼 `rdp://`、`mstsc /v:`、`vnc://`、`rustdesk://<ID>` 加入，也可匯入 `.rdp` 檔。**RDP**（NLA、伺服器憑證指紋首次確認、縮放 / 遠端跟著調整解析度 / 原始大小）、**VNC 與 Mac 螢幕共享**（Mac 用登入帳密，認證由 App 代做、密碼不進網頁層）、**RustDesk**（Direct IP，或用 RustDesk ID 經公開 / 自架的 ID 與中繼伺服器連線，填 Key 即端到端加密；對方開了雙重驗證會改問驗證碼；不帶密碼時等對方按接受）；全部畫在分頁裡、可多開，**全螢幕**時 Win / Alt+Tab / Alt+F4 直接交給遠端（Windows），工具列送 Ctrl+Alt+Del；剪貼簿文字雙向同步；可指定一台 SSH 主機當跳板加密轉接。RustDesk 連線功能是獨立的 AGPL 小程式（`rustdesk-bridge/`），隨安裝檔附上，db-kit 本身維持 MIT |
+| 遠端桌面 | 側欄獨立「遠端桌面」清單（可分群組；有主機才出現），從「新增連線」或貼 `rdp://`、`mstsc /v:`、`vnc://`、`rustdesk://<ID>` 加入，也可匯入 `.rdp` 檔。**RDP**（NLA、伺服器憑證指紋首次確認、縮放 / 遠端跟著調整解析度 / 原始大小）、**VNC 與 Mac 螢幕共享**（Mac 用登入帳密，認證由 App 代做、密碼不進網頁層）、**RustDesk**（Direct IP，或用 RustDesk ID 經公開 / 自架的 ID 與中繼伺服器連線，填 Key 即端到端加密；對方開了雙重驗證會改問驗證碼；不帶密碼時等對方按接受）；全部畫在分頁裡、可多開，**全螢幕**時 Win / Alt+Tab / Alt+F4 直接交給遠端（Windows），工具列送 Ctrl+Alt+Del；剪貼簿文字雙向同步；可指定一台 SSH 主機當跳板加密轉接。**RustDesk 工具列**：畫質與編碼（含真彩 4:4:4）、自訂縮放、多螢幕切換或「所有螢幕」拼成一張、游標換成對方的形狀、虛擬鍵盤與一鍵輸入作業系統密碼、鍵盤模式（對應 / 翻譯）、聊天、連線品質、截圖與**錄影**、**檔案傳輸**（左本機右對方的雙窗格，上傳下載整個資料夾），對方登入 / 登出 / 重開機後**自動重連**。**VNC 工具列**：顯示設定、動作、截圖、錄影、虛擬鍵盤，剪貼簿文字可逐字打到遠端，斷線自動重連；伺服器支援 **VeNCrypt** 時改走 TLS（匿名 TLS 或 X509 憑證，憑證首次確認並記住），畫面、鍵盤與密碼不再明文傳送。分頁與側欄主機右鍵可中斷 / 重新連線。RustDesk 連線功能是獨立的 AGPL 小程式（`rustdesk-bridge/`），隨安裝檔附上，db-kit 本身維持 MIT |
 | 檔案比對 | 分頁內的**文字比對**（左右並排、行內差異、捲動對齊、兩邊都可直接編輯，逐塊 → / ← 套用、Alt+↑ / ↓ 跳差異，存回原檔前檢查是否被別人改過）、**資料夾比對**（相同 / 不同 / 只在一邊各有顏色、篩選；判斷準則可選大小 + 修改時間、只看大小或逐位元組；排除規則支援 `*` `?`；複製保留修改時間）與**同步**（鏡像、單向更新、雙向更新，執行前列出每一項動作）、**二進位比對**（十六進位並排、差異區段）。兩邊可以是本機或任何已存的 SSH / SFTP / FTP 主機，常用的比對可以存起來；命令列 `dbk diff` / `dbk sync` 可放進排程 |
 | SQL 審查 | **靜態規則引擎**（對標 Redgate SQL Prompt / SonarQube SQL rules）：15 條規則、三級嚴重度，打字當下即時列出無 WHERE 的 DML、笛卡兒積、欄位套函式讓索引失效、前綴萬用字元 LIKE、`NOT IN` 的 NULL 陷阱、UNION vs UNION ALL、NOLOCK 髒讀、游標逐列處理…；方言感知、**不執行查詢也不需要 AI**，點一筆即跳到編輯器對應位置 |
 | AI 助手 | 右側面板串接本機 **Claude Code 或 OpenAI Codex** CLI（下拉即切、各自記住模型）或任何 Anthropic / OpenAI 相容 API：串流問答、撰寫 / 優化 SQL；程式碼區塊套用目前主題的語法高亮。**助手可自己下唯讀查詢**（列表 / 看結構 / 取樣 / SELECT / EXPLAIN；跑過的 SQL 全列在回應裡）；輸入框支援 **`@` 指定範圍**與 **`/` 指令**；回應裡的 SQL 可直接執行並把結果回饋給模型。另有三個一鍵入口——**AI 審查 SQL**（帶規則引擎發現 + 結構 + 索引 + 計畫）、**AI 調校建議**（帶計畫熱點，要求索引 DDL / 改寫 / 代價評估）、**AI 分析壓測結果**（從延遲百分位的形狀反推瓶頸類型）。在 **SSH 終端機分頁**可「解釋這段輸出 / 修正這個錯誤 / 摘要 session / 用自然語言產生指令」，回覆裡的 bash 區塊有「送到終端機」「執行並回饋」——**AI 只建議，指令一律由你按鈕送出**，危險指令（rm -rf、dd、mkfs…）先確認、致命指令直接擋下 |
@@ -309,9 +309,9 @@ docker run --name mysql-test -e MYSQL_ROOT_PASSWORD=test1234 -p 3306:3306 -d mys
 | 預存程序整合測試 | 情境式測試檔（`insert` / `call` / `query` / `sql` / `compare` / `snapshot`，符號 `>>` `<<` 傳值，`fixtures` 共用前置、`cases` 資料驅動）；呼叫前後**自動快照受影響的表**（盤點程序本文 / 被呼叫程序 / 觸發器）；斷言結果集（部分欄、不比列序、`?` 只比值）、OUT 參數、return code、副作用數量或逐列、`effects_strict`、錯誤類別；值比對含 `1.0`=`1`、bit=boolean、日期容差、identity / 時間預設值自動遮罩；模式 `assert` / `record` / `golden` / `diff`；AI 產生情境；`dbk sp-test run|diff|inspect|validate`，JUnit + `--exit-code`；支援 SQL Server / PostgreSQL / MySQL |
 | AI 動作（編輯器） | 選一段 SQL → 右鍵 / `Ctrl+Shift+E` / 工具列「AI 動作」：解釋、最佳化、修正、加註解、**轉換方言**、產生測試資料、白話解釋執行計畫；`Ctrl+I` 用一句話描述要怎麼改。改寫類一律先走**差異預覽**（逐塊可拒絕、可手改），接受後進 undo 歷史 |
 | 多語系 | **繁體中文 · 简体中文 · English · 日本語 · 한국어 · Tiếng Việt**，工具列或設定頁即時切換、不需重啟；前端 / Rust 後端錯誤訊息 / `dbk` CLI（`--lang`、`DBKIT_LANG`）三處同步。各語言的譯文表由 vite 各切一個 chunk，只下載自己那包 |
-| 運維 | 連線設定持久化、加密匯出 / 匯入連線（逐筆選連線與機密類別；PROD 連線一律不含帳密）、排程備份 + 備份歷史、連線池監控 + Ping、**App 內更新**（有新版跳出更新視窗並列出這一版的更新內容；Windows 按「立即更新」下載安裝檔、比對 SHA-256、裝完自動重開，macOS / Linux 前往下載頁）、跨平台桌面 App |
+| 運維 | 連線設定持久化、加密匯出 / 匯入連線（照側欄的分段與群組列出、可整段或整組勾選，SSH 主機與遠端桌面一起帶；逐筆選機密類別；PROD 連線一律不含帳密）、排程備份 + 備份歷史、連線池監控 + Ping、**App 內更新**（有新版跳出更新視窗並列出這一版的更新內容；Windows 按「立即更新」下載安裝檔、比對 SHA-256、裝完自動重開，macOS / Linux 前往下載頁）、跨平台桌面 App |
 
-> 目前進度：**八大資料庫 + Kafka 全部可連線**；關聯式完整 CRUD / DDL 欄位編輯 / 索引管理 / EXPLAIN / RETURNING 顯示、多欄複合篩選（9 種運算子 + AND·OR）排序、**CSV 匯入** + 多格式匯出 + **轉儲整庫結構 SQL**
+> 目前進度：**十一種資料來源（八大資料庫 + Kafka · RabbitMQ · Elasticsearch）全部可連線**；關聯式完整 CRUD / DDL 欄位編輯 / 索引管理 / EXPLAIN / RETURNING 顯示、多欄複合篩選（9 種運算子 + AND·OR）排序、**CSV 匯入** + 多格式匯出 + **轉儲整庫結構 SQL**
 > SQL Server（tiberius + bb8 連線池）：CRUD、結構分頁（索引 / 外鍵 / DDL）、routines（預存程序 / 函式）、執行計畫（SET SHOWPLAN_XML）、ER 圖、欄位統計；備份 / 還原規劃以 sqlpackage 匯出 `.bacpac`（尚未接上）
 > MariaDB 與 MySQL 共用驅動（線協定相容）：MySQL 全功能對齊 + `INSERT/DELETE … RETURNING` 結果集顯示
 > Oracle（rust-oracle / ODPI-C）：CRUD、結構分頁（索引 / 外鍵 / DDL via DBMS_METADATA）、routines、執行計畫（EXPLAIN PLAN + DBMS_XPLAN）、ER 圖、欄位統計；**需自行安裝 64 位元 Oracle Instant Client**（執行期偵測 PATH / ORACLE_HOME / 自訂目錄，未安裝時給下載指引；伺服器需 12c+）
@@ -423,6 +423,11 @@ docker run --name mysql-test -e MYSQL_ROOT_PASSWORD=test1234 -p 3306:3306 -d mys
 - [x] **Kubernetes**：kubeconfig / token / 憑證 / 外部登入指令（EKS / GKE / AKS），namespace → 資源樹、概要 / 事件 / YAML 編輯與套用、Pod log / shell / 資源用量、調整副本 / 重新啟動 / cordon、port-forward 與「建立資料庫連線」自動轉發、資源瀏覽器（含 CRD）
 - [x] **檔案 / 資料夾 / 二進位比對**：文字逐塊套用並存回、資料夾比對與鏡像 / 更新同步、十六進位比對；本機與 SSH / FTP 主機任意組合；已存的比對；`dbk diff` / `dbk sync`
 - [x] **側欄分組一致化**：資料庫連線依種類分區，SSH 主機、遠端桌面各一區，三區都可摺疊、建群組、拖曳排序與拖進拖出
+- [x] **RustDesk 工具列**：畫質 / 編碼 / 真彩 4:4:4、自訂縮放、多螢幕切換與「所有螢幕」、對方游標形狀、虛擬鍵盤與輸入作業系統密碼、鍵盤模式、聊天、連線品質、截圖與錄影、雙窗格檔案傳輸、被對方中斷後自動重連
+- [x] **VNC 工具列與 VeNCrypt 加密**：顯示設定 / 動作 / 截圖 / 錄影、虛擬鍵盤、剪貼簿逐字打出、斷線自動重連；匿名 TLS 與 X509 憑證 TLS，「自動」優先走加密
+- [x] **SSH 操作紀錄**：終端機指令、SFTP / FTP 檔案動作與連線事件，可查詢與匯出，密碼不記
+- [x] **進階匯出連線照側欄分組**：整段 / 整組勾選，SSH 主機與遠端桌面一起匯出、匯入
+- [x] **結構比對操作重做**：物件勾選驅動同步腳本、狀態晶片、每列差異摘要、⇄ 對調來源與目標、比對選項、DDL 行號與字詞級差異、只看差異摺疊、上一個 / 下一個物件、套用後自動重比
 
 </details>
 
